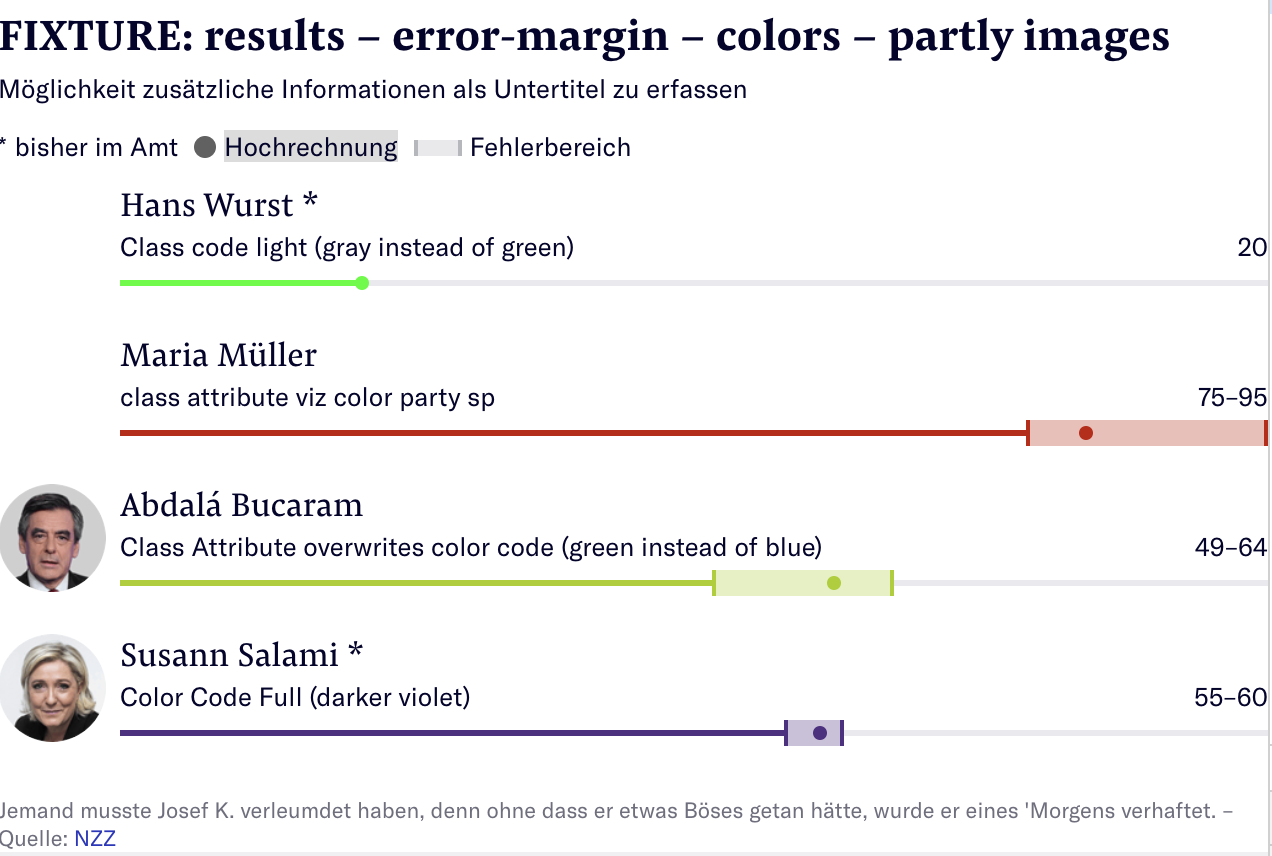
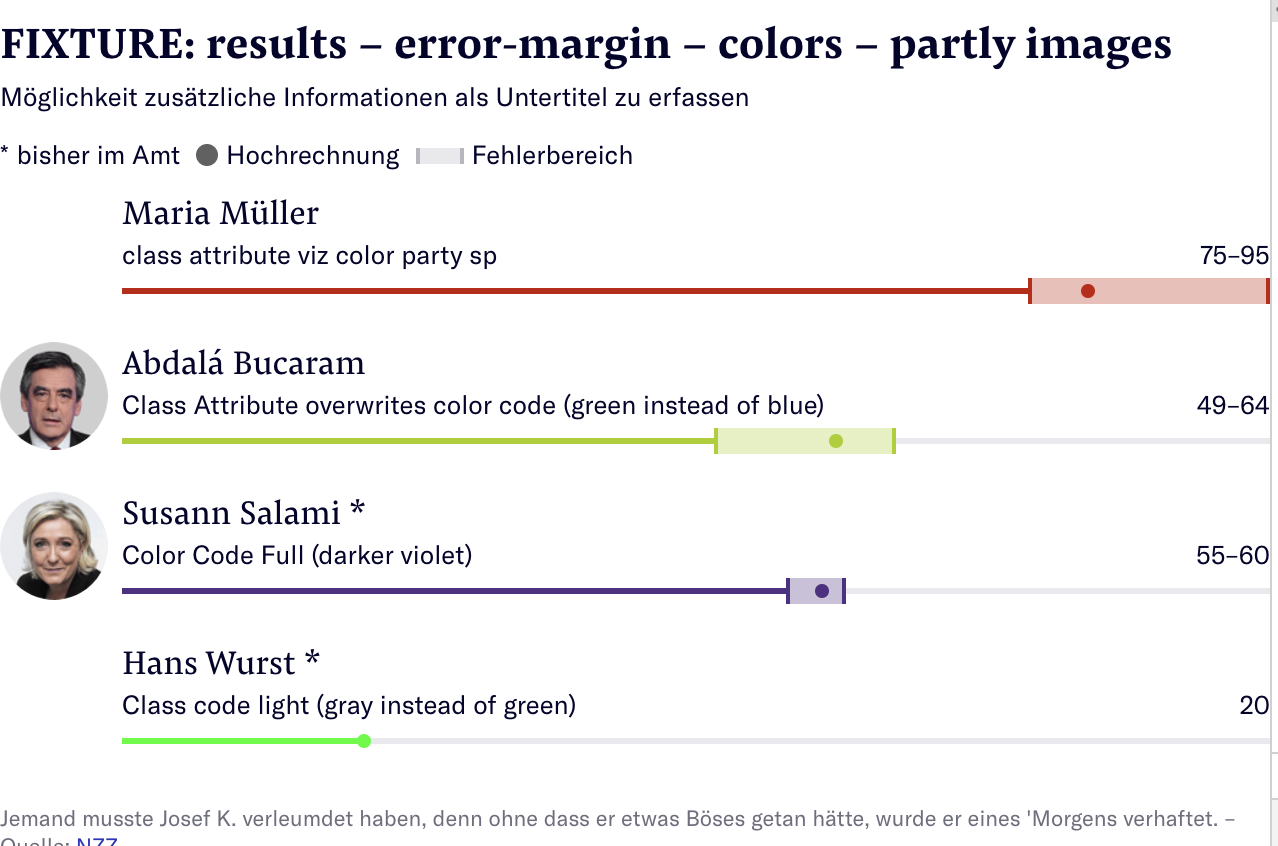
(feat) error margin: fix sorting if withErrorMargin

diff --git a/views/HtmlStatic.html b/views/HtmlStatic.html
@@ -71,18 +71,35 @@
         }
         return '';
       },
-      //TODO: do not random sort but return by array index if no values given
-      sortedCandidates: ({ candidates }) => {
+      sortedCandidates: ({ candidates, withErrorMargin }) => {
         if (candidates) {
-          return candidates.sort(function(candidateA, candidateB) {
-            if ((candidateA.votes === undefined && candidateB.votes === undefined) || candidateA.votes === candidateB.votes) {
-              return 0;
-            }
-            if ((candidateA.votes === undefined && candidateB.votes !== undefined) || (candidateA.votes < candidateB.votes)) {
-              return 1;
-            }
-            return -1;
-          })
+          if (withErrorMargin) {
+            return candidates.sort(function(candidateA, candidateB) {
+              // if both have no errorMargin set, keep the order
+              if (candidateA.errorMargin === undefined && candidateB.errorMargin === undefined) {
+                return 0;
+              } // if only A has no errorMargin, sort B before A
+              if (candidateA.errorMargin === undefined && candidateB.errorMargin !== undefined) {
+                return 1;
+              }
+              // if only A has no bestGuess or B bestGuess is higher than A, sort B before A
+              if ((candidateA.errorMargin.bestGuess === undefined && candidateB.errorMargin.bestGuess !== undefined) || (candidateA.errorMargin.bestGuess < candidateB.errorMargin.bestGuess)) {
+                return 1;
+              }
+              // otherwise sort A before B
+              return -1;
+            });
+          } else {
+            return candidates.sort(function(candidateA, candidateB) {
+              if ((candidateA.votes === undefined && candidateB.votes === undefined) || candidateA.votes === candidateB.votes) {
+                return 0;
+              }
+              if ((candidateA.votes === undefined && candidateB.votes !== undefined) || (candidateA.votes < candidateB.votes)) {
+                return 1;
+              }
+              return -1;
+            });
+          }
         }
         return [];
       },
